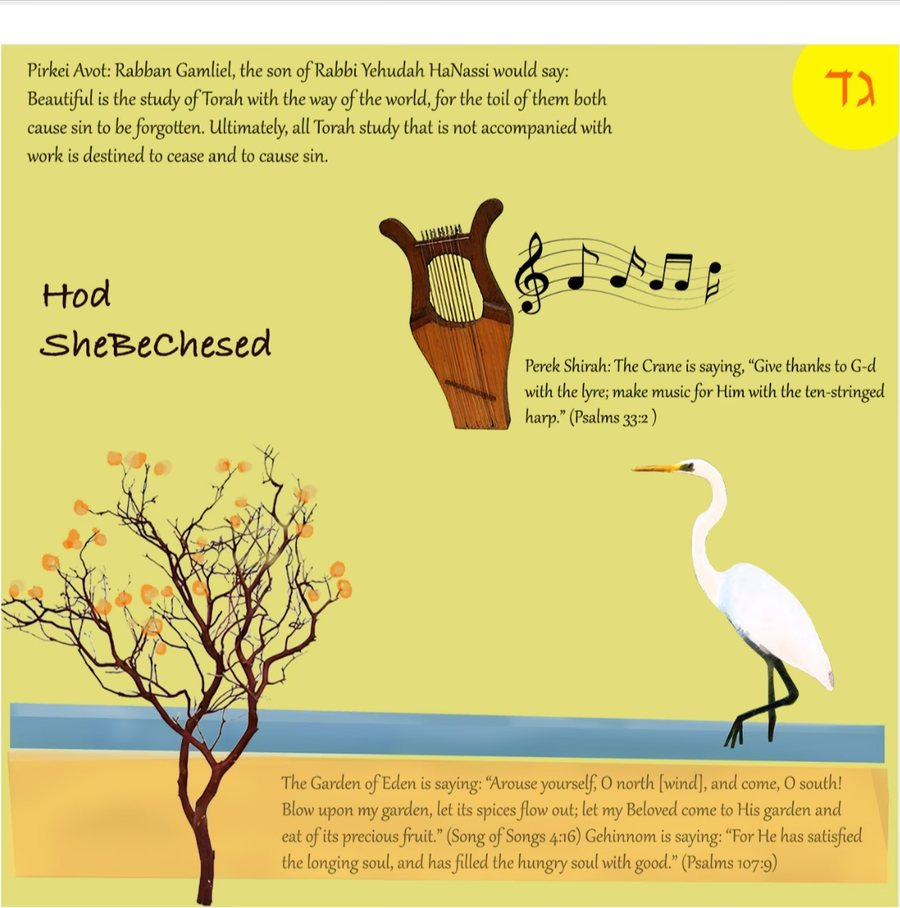
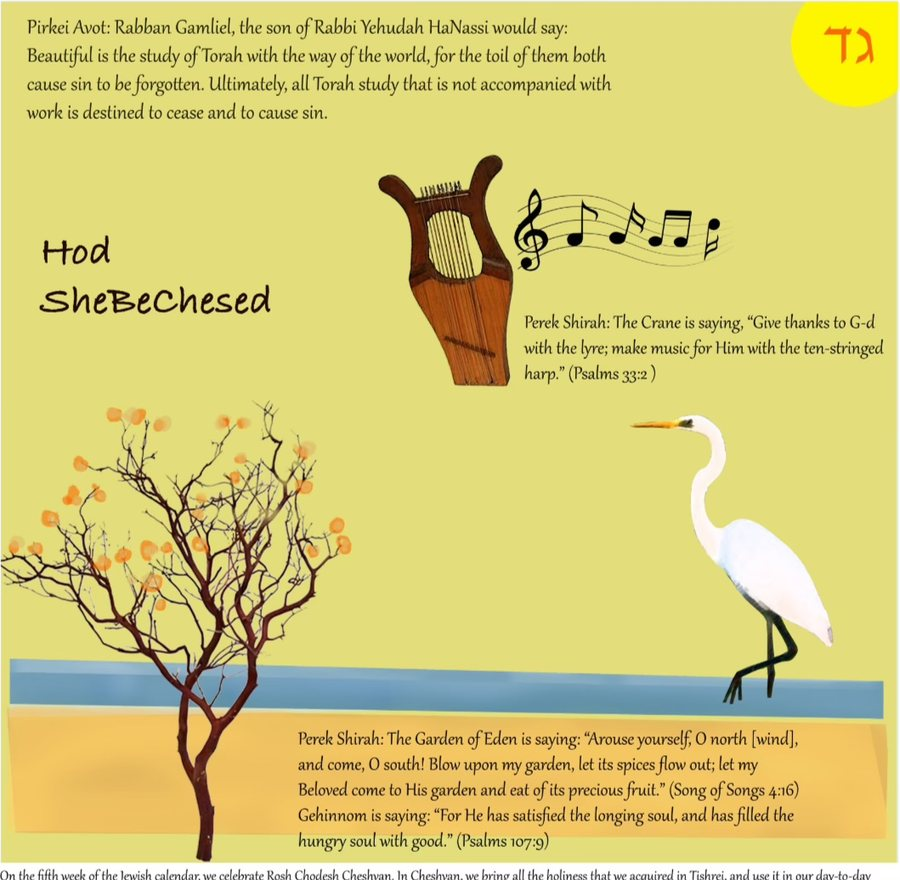
Replace week 5 with the revised Crane page
The Garden of Eden's song now carries its attribution, as on week 4.
Trimmed on import; all five opening pages declare the size they are.

Claude-Session: https://claude.ai/code/session_01RS2FMfmK8R2uQnxc6BrjxF

diff --git a/index.html b/index.html
@@ -9762,7 +9762,7 @@ hr.wr-hr{border:none;border-top:1px solid var(--border);margin:14px 0;}
     '2':   [900, 880],
     '3':   [900, 861],
     '4':  [900, 897],
-    '5':   [900, 908],
+    '5':  [900, 880],
     '50':  [900, 897],
     '51':  [900, 868],
     '52':  [900, 909],
